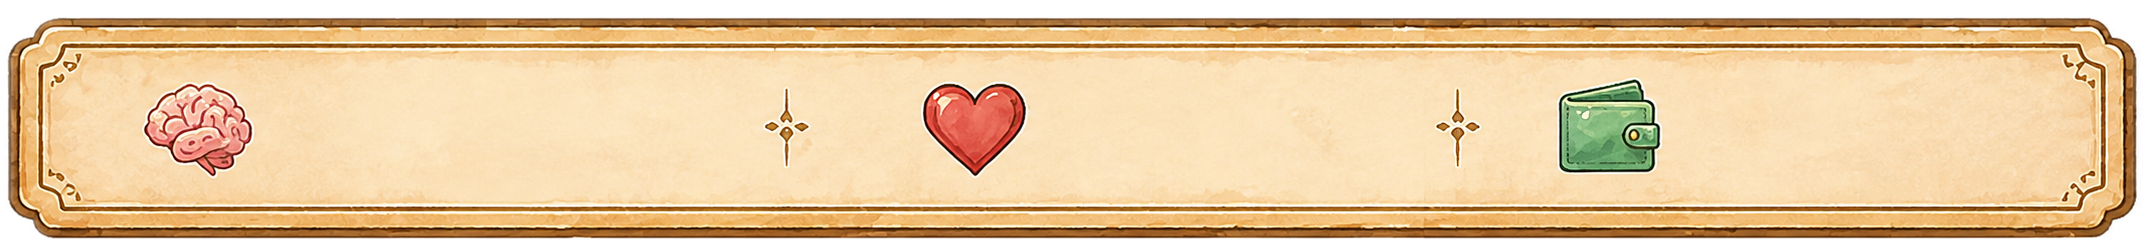
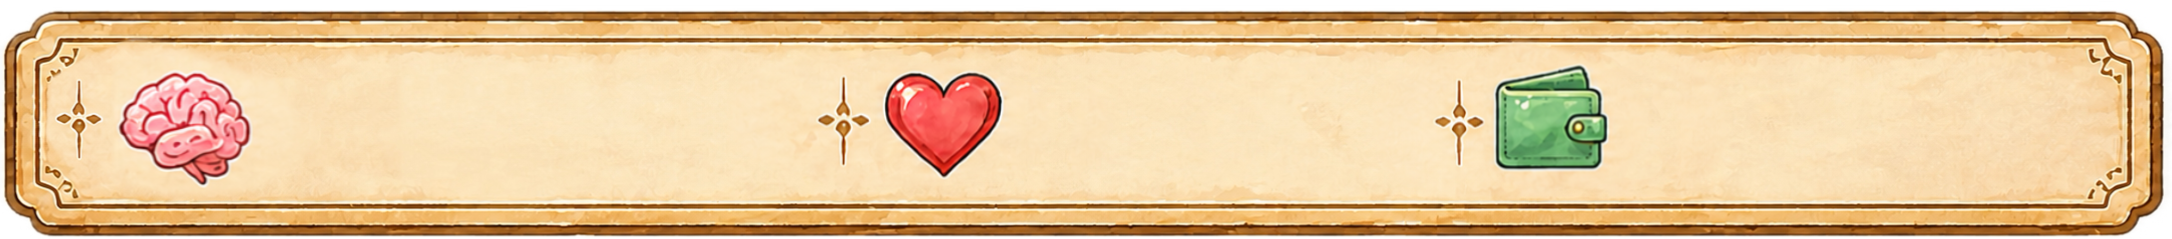
Add the global status to the status bar.

diff --git a/frontend/src/slices/gameSlice.ts b/frontend/src/slices/gameSlice.ts
@@ -1,4 +1,5 @@
 import { createSlice, type PayloadAction } from '@reduxjs/toolkit'
+import type { Character, CharacterStats } from '../components/CharacterSelectScreen/constants'
 import type { Task } from '../components/MonthlyTaskSelection/types'
 
 interface QuarterTasks {
@@ -6,12 +7,30 @@ interface QuarterTasks {
   randomTask: Task | null // 1 system-assigned random task
 }
 
+const DEFAULT_STATS: CharacterStats = { intelligence: 55, health: 60, wealth: 50 }
+
 interface GameState {
+  selectedCharacter: Character | null
+  currentStats: CharacterStats
   currentQuarter: number
   quarters: Partial<Record<1 | 2 | 3 | 4, QuarterTasks>>
 }
 
+function readStoredCharacter(): Character | null {
+  if (typeof localStorage === 'undefined') return null
+
+  try {
+    return JSON.parse(localStorage.getItem('selectedCharacter') ?? 'null') as Character | null
+  } catch {
+    return null
+  }
+}
+
+const storedCharacter = readStoredCharacter()
+
 const initialState: GameState = {
+  selectedCharacter: storedCharacter,
+  currentStats: storedCharacter?.stats ?? DEFAULT_STATS,
   currentQuarter: 1,
   quarters: {},
 }
@@ -20,6 +39,10 @@ const gameSlice = createSlice({
   name: 'game',
   initialState,
   reducers: {
+    selectCharacter(state, action: PayloadAction<Character>) {
+      state.selectedCharacter = action.payload
+      state.currentStats = action.payload.stats
+    },
     confirmQuarterTasks(
       state,
       action: PayloadAction<{ quarter: 1 | 2 | 3 | 4; selectedTasks: Task[]; randomTask: Task }>
@@ -34,11 +57,14 @@ const gameSlice = createSlice({
       state.currentQuarter = action.payload
     },
     resetGame(state) {
+      state.selectedCharacter = null
+      state.currentStats = DEFAULT_STATS
       state.currentQuarter = 1
       state.quarters = {}
     },
   },
 })
 
-export const { confirmQuarterTasks, advanceQuarter, setQuarter, resetGame } = gameSlice.actions
+export const { selectCharacter, confirmQuarterTasks, advanceQuarter, setQuarter, resetGame } =
+  gameSlice.actions
 export default gameSlice.reducer

diff --git a/frontend/src/components/MonthlyTaskSelection/AttributeBar.tsx b/frontend/src/components/MonthlyTaskSelection/AttributeBar.tsx
@@ -11,9 +11,9 @@ interface Props {
 
 export function AttributeBar({ intelligence, health, wealth }: Props) {
   const attrs = [
-    { label: 'Intelligence', value: intelligence, left: -28 },
-    { label: 'Health',       value: health,       left:  28 },
-    { label: 'Wealth',       value: wealth,       left:  74 },
+    { label: 'Intelligence', value: intelligence, centerOffset: -170 },
+    { label: 'Health', value: health, centerOffset: 60 },
+    { label: 'Wealth', value: wealth, centerOffset: 250 },
   ]
 
   return (
@@ -25,9 +25,16 @@ export function AttributeBar({ intelligence, health, wealth }: Props) {
         className="absolute inset-0 h-full w-full"
         style={{ objectFit: 'contain', objectPosition: 'center' }}
       />
-      <div className="relative flex h-full items-center justify-center gap-12">
-        {attrs.map(({ label, value, left }) => (
-          <div key={label} className="flex items-center gap-2 font-serif text-sm text-desk-dark" style={{ position: 'relative', left }}>
+      <div className="relative h-full">
+        {attrs.map(({ label, value, centerOffset }) => (
+          <div
+            key={label}
+            className="absolute top-1/2 w-36 font-serif text-xs text-desk-dark"
+            style={{
+              left: `calc(50% + ${centerOffset}px)`,
+              transform: 'translate(-50%, -50%)',
+            }}
+          >
             <span>{label}: <span className="font-bold">{getLevel(value)}</span></span>
           </div>
         ))}

diff --git a/frontend/src/screens/MonthlyTaskSelection.tsx b/frontend/src/screens/MonthlyTaskSelection.tsx
@@ -14,7 +14,6 @@ import {
   MonthHeader,
   MonthlyPlanBoard,
   TaskList,
-  BASE_STATS,
   MAX_PLAYER_SELECTIONS,
   TASKS,
   mapEventToTask,
@@ -26,6 +25,7 @@ export function MonthlyTaskSelection() {
   const navigate = useNavigate()
   const dispatch = useDispatch<AppDispatch>()
   const quarter = useSelector((s: RootState) => s.game.currentQuarter) as 1 | 2 | 3 | 4
+  const currentStats = useSelector((s: RootState) => s.game.currentStats)
   const [activeCategory, setActiveCategory] = useState<Category>('Study')
   const [selectedIds, setSelectedIds] = useState<string[]>([])
   const [tasks, setTasks] = useState<Task[]>(TASKS)
@@ -35,7 +35,7 @@ export function MonthlyTaskSelection() {
     fetchEventsByQuarter(quarter)
       .then(({ events }) => setTasks(events.map(mapEventToTask)))
       .catch(() => {})
-  }, [])
+  }, [quarter])
 
   const visibleTasks = tasks.filter((t) => t.category === activeCategory)
   const selectedTasks: (Task | undefined)[] = selectedIds.map(
@@ -88,9 +88,9 @@ export function MonthlyTaskSelection() {
       }}
     >
       <AttributeBar
-        intelligence={BASE_STATS.intelligence}
-        health={BASE_STATS.health}
-        wealth={BASE_STATS.wealth}
+        intelligence={currentStats.intelligence}
+        health={currentStats.health}
+        wealth={currentStats.wealth}
       />
 
       <div className="flex flex-1 flex-col items-center" style={{ marginTop: -34 }}>

diff --git a/frontend/src/screens/CharacterSelectScreen.tsx b/frontend/src/screens/CharacterSelectScreen.tsx
@@ -1,4 +1,5 @@
 import { useRef } from 'react'
+import { useDispatch } from 'react-redux'
 import { useNavigate } from 'react-router-dom'
 
 import { arrowLeft, arrowRight, backHomeBtn, characterBg, heroLeft, heroPlane, heroRight } from '../assets/CharacterSelect'
@@ -6,9 +7,12 @@ import { characters, DESIGN_HEIGHT, DESIGN_WIDTH, Character } from '../component
 import { DesktopCharacterCard } from '../components/CharacterSelectScreen/DesktopCharacterCard'
 import { useIsMobile, useResponsiveStageScale } from '../components/CharacterSelectScreen/hooks'
 import { MobileCharacterCard } from '../components/CharacterSelectScreen/MobileCharacterCard'
+import { selectCharacter } from '../slices/gameSlice'
+import type { AppDispatch } from '../store'
 
 export function CharacterSelectScreen() {
   const navigate = useNavigate()
+  const dispatch = useDispatch<AppDispatch>()
   const scrollRef = useRef<HTMLDivElement>(null)
   const stageScale = useResponsiveStageScale()
   const isMobile = useIsMobile()
@@ -29,6 +33,7 @@ export function CharacterSelectScreen() {
 
   function chooseCharacter(character: Character) {
     localStorage.setItem('selectedCharacter', JSON.stringify(character))
+    dispatch(selectCharacter(character))
     navigate('/monthly-task-selection')
   }
 
